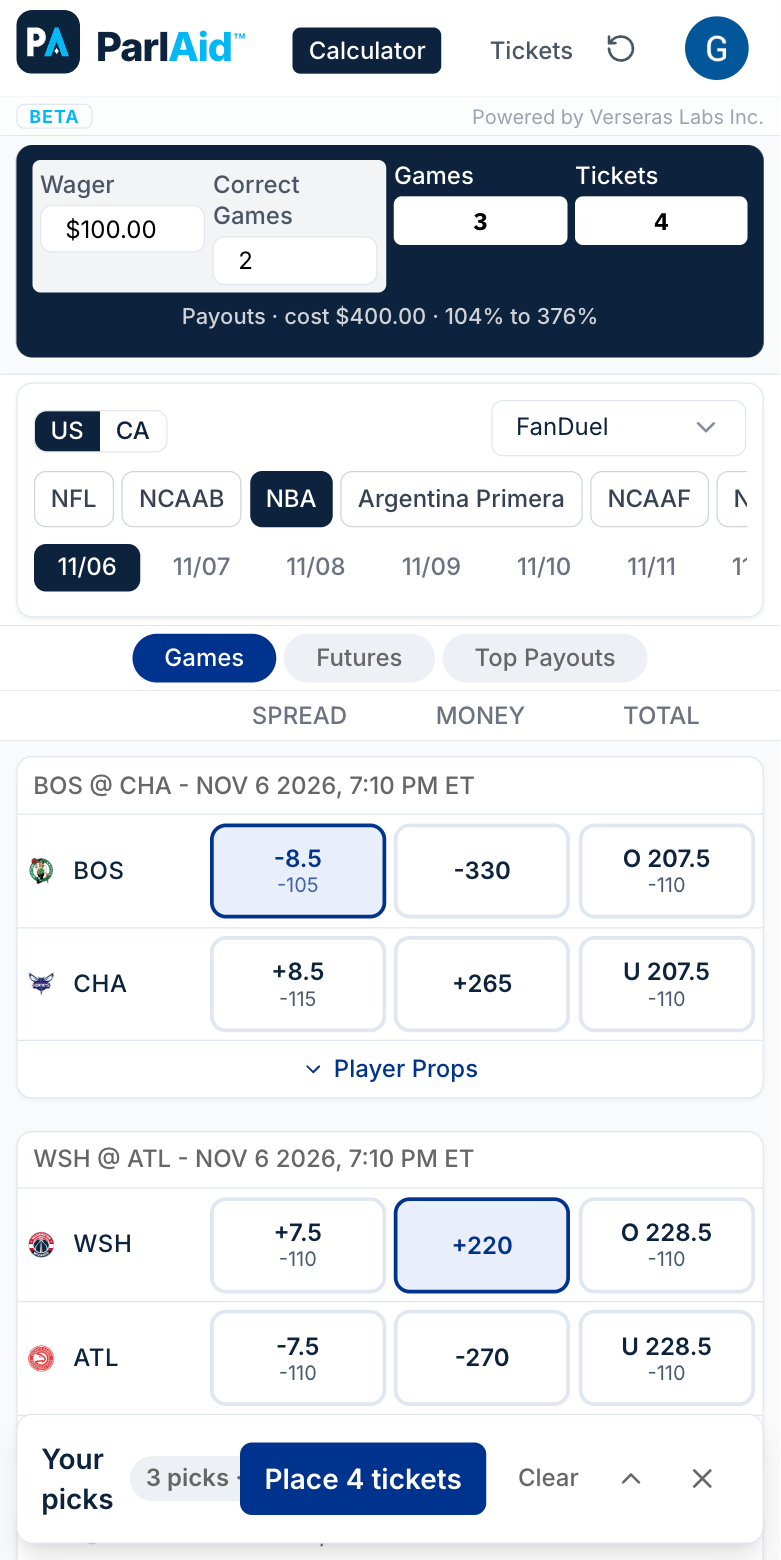
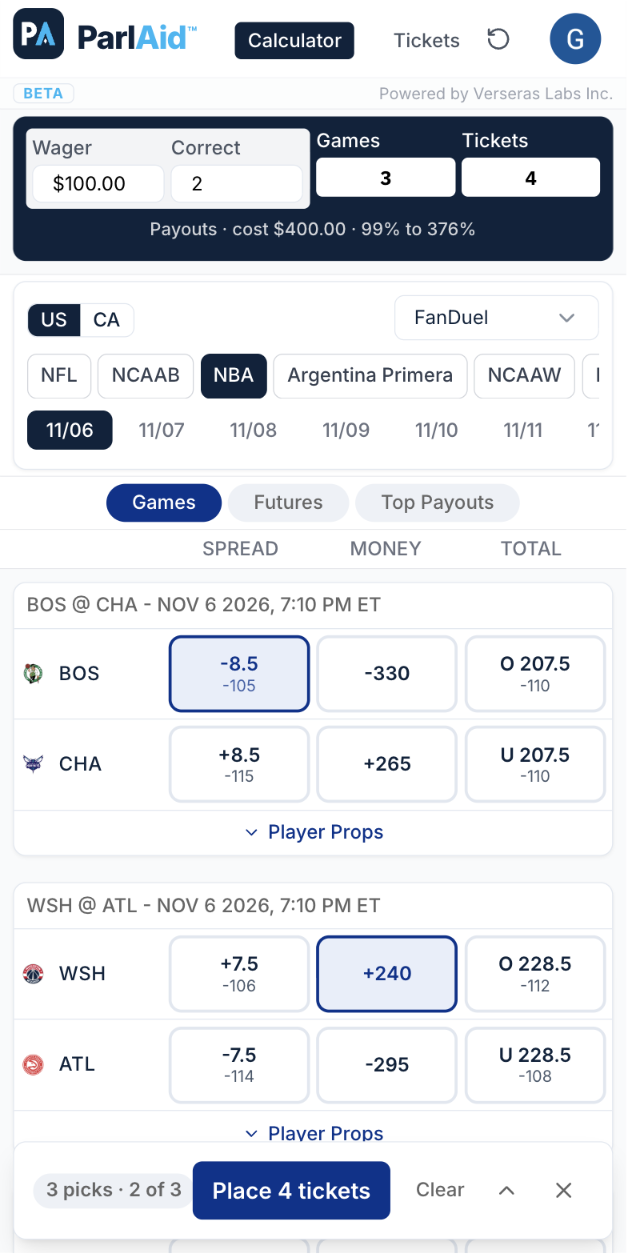
Re-captured the three app screenshots after the phone fixes
Claude-Session: https://claude.ai/code/session_01VFivBfiinxpREJdhBS1aAv

diff --git a/index.html b/index.html
@@ -189,7 +189,7 @@ footer{border-top:1px solid var(--rule);padding:40px 0 48px;font-size:14px;color
         <h3>Pick your games</h3>
         <p>Browse today's odds across every sport. Tap the games you like &mdash; spreads, moneylines, totals, even player props. Live lines from 10 sportsbooks in the US and 10 in Ontario.</p>
       </div>
-      <div class="shot"><img src="assets/screens/step1-games.png" alt="The ParlAid Games tab on a phone: NBA games with spread, moneyline and total prices, three picks selected" loading="lazy" width="781" height="1560"></div>
+      <div class="shot"><img src="assets/screens/step1-games.png" alt="The ParlAid Games tab on a phone: NBA games with spread, moneyline and total prices, three picks selected" loading="lazy" width="627" height="1254"></div>
     </div>
 
     <div class="step">
@@ -198,7 +198,7 @@ footer{border-top:1px solid var(--rule);padding:40px 0 48px;font-size:14px;color
         <h3>Decide how many you need right</h3>
         <p>Pick 3 games but only confident about 2? Set it to &ldquo;2 out of 3.&rdquo; ParlAid&trade; shows the tickets you need, what they cost, and what they pay.</p>
       </div>
-      <div class="shot"><img src="assets/screens/step2-betslip.png" alt="The ParlAid betslip with three picks set to 2 of 3" loading="lazy" width="781" height="1560"></div>
+      <div class="shot"><img src="assets/screens/step2-betslip.png" alt="The ParlAid betslip with three picks set to 2 of 3" loading="lazy" width="627" height="1254"></div>
     </div>
 
     <div class="step">
@@ -207,7 +207,7 @@ footer{border-top:1px solid var(--rule);padding:40px 0 48px;font-size:14px;color
         <h3>Place each ticket at its own sportsbook</h3>
         <p>ParlAid&trade; builds your tickets and finds the best price for each one across every sportsbook. One tap opens the book with your picks already in the slip.</p>
       </div>
-      <div class="shot"><img src="assets/screens/step3-tickets.png" alt="The Place your tickets window: each ticket at a different sportsbook with its payout" loading="lazy" width="781" height="1560"></div>
+      <div class="shot"><img src="assets/screens/step3-tickets.png" alt="The Place your tickets window: each ticket at a different sportsbook with its payout" loading="lazy" width="627" height="1254"></div>
     </div>
 
     <p class="example-note">Teams, players and prices shown are examples.</p>
